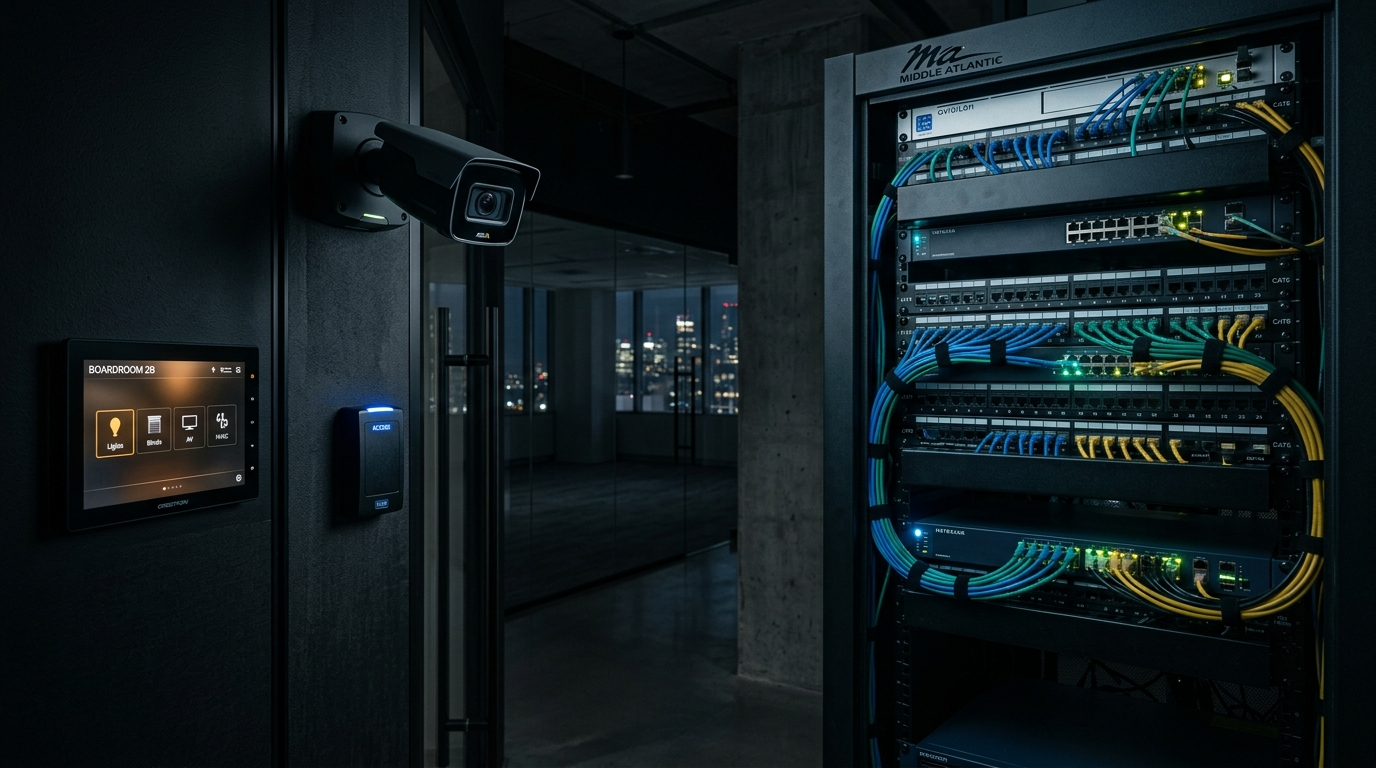
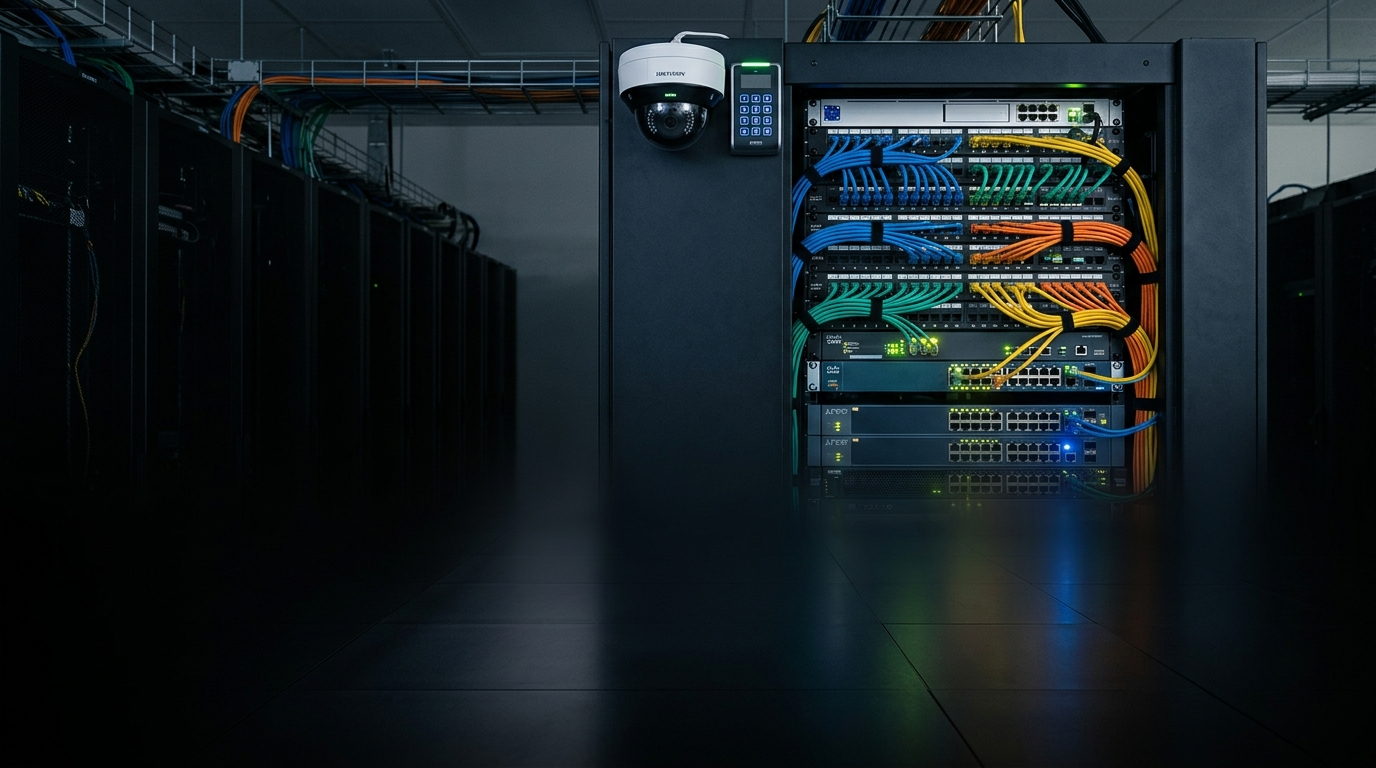
Position cabling, camera and access control in top right of hero with bottom text contrast

diff --git a/src/app/globals.css b/src/app/globals.css
@@ -367,6 +367,8 @@ h3 {
 }
 .hero-story > img {
   z-index: -2;
+  object-fit: cover;
+  object-position: 70% top;
   transition: transform 0.7s;
 }
 .hero-story:hover > img {
@@ -378,9 +380,10 @@ h3 {
   z-index: -1;
   background: linear-gradient(
     180deg,
-    rgba(12, 22, 29, 0.35) 0%,
-    rgba(12, 22, 29, 0.55) 40%,
-    rgba(12, 22, 29, 0.94) 100%
+    rgba(12, 22, 29, 0.08) 0%,
+    rgba(12, 22, 29, 0.22) 32%,
+    rgba(12, 22, 29, 0.82) 68%,
+    rgba(12, 22, 29, 0.96) 100%
   );
 }
 .hero-topline {
